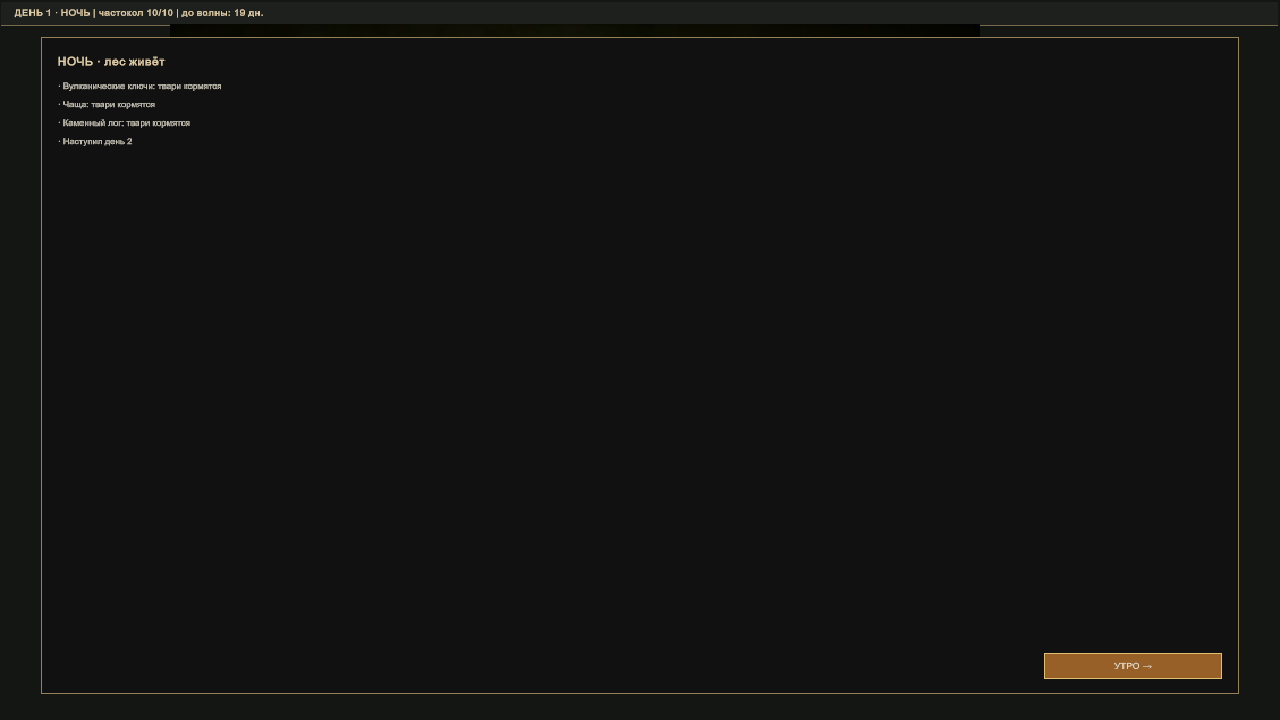
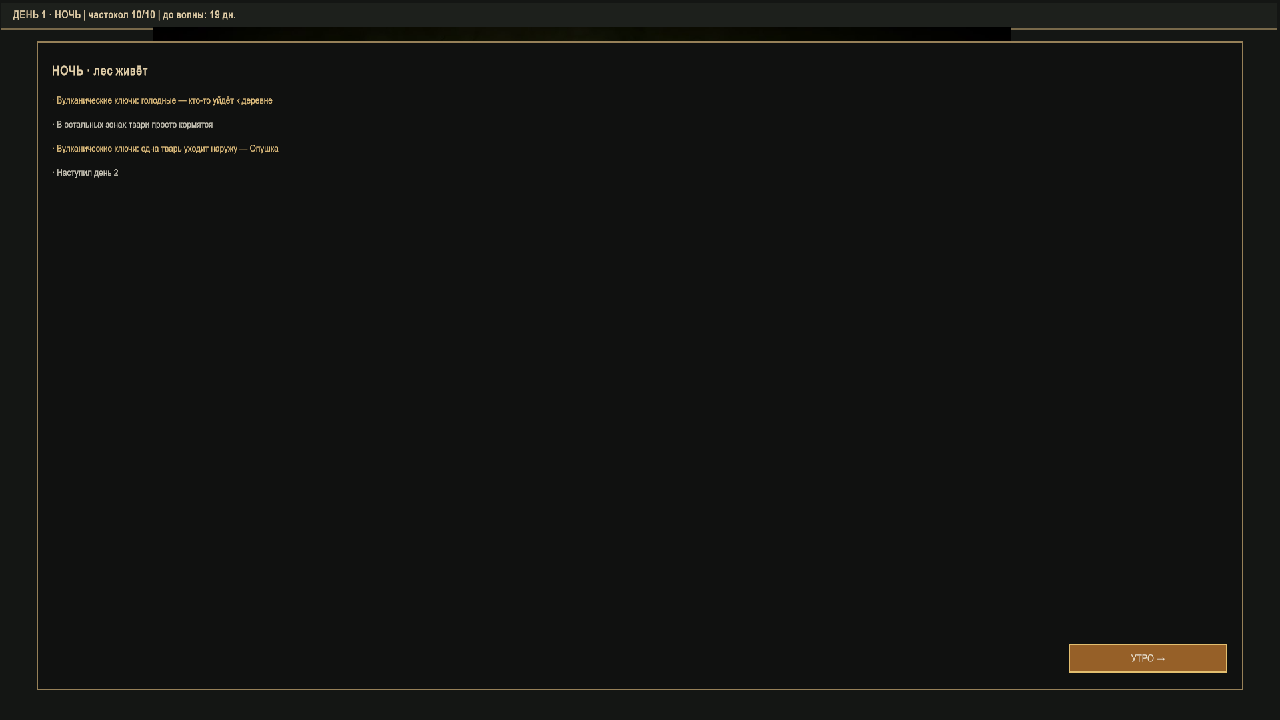
feat(ui): ночь без стрелок, кликабельные зоны и свёртка тихих зон

Changed region(s): [[0.0, 0.0, 1.0, 0.2444], [0.8125, 0.8861, 0.9688, 0.9472]]

diff --git a/FG/Assets/Scripts/Core/Sim/NightSim.cs b/FG/Assets/Scripts/Core/Sim/NightSim.cs
@@ -5,13 +5,21 @@ using ForestGuild.Core.Data;
 
 namespace ForestGuild.Core.Sim
 {
+    public sealed class NightLine
+    {
+        public string Text;
+        public string ZoneId;
+    }
+
     public sealed class NightReport
     {
         public readonly List<string> Lines = new List<string>();
+        public readonly List<NightLine> Entries = new List<NightLine>();
 
-        public void Add(string line)
+        public void Add(string line, string zoneId = null)
         {
             Lines.Add(line);
+            Entries.Add(new NightLine { Text = line, ZoneId = zoneId });
         }
     }
 
@@ -102,24 +110,30 @@ namespace ForestGuild.Core.Sim
             return logs;
         }
 
+        /// Тихую ночь не перечисляем: одна строка на все зоны, где только ели.
         private static void ReportFeeding(World world, Tables tables, List<ZoneNightLog> logs, NightReport report)
         {
+            var quiet = 0;
+
             foreach (var log in logs)
             {
                 var name = tables.Zones.Get(log.ZoneId).Name;
+
                 if (log.Starved > 0)
                 {
-                    report.Add(name + ": голодные — кто-то уйдёт к деревне");
+                    report.Add(name + ": голодные — кто-то уйдёт к деревне", log.ZoneId);
                 }
                 else if (log.CrystalsEaten > 0)
                 {
-                    report.Add(name + ": твари добрались до кристаллов");
+                    report.Add(name + ": твари добрались до кристаллов", log.ZoneId);
                 }
                 else if (log.ForageEaten > 0)
                 {
-                    report.Add(name + ": твари кормятся");
+                    quiet++;
                 }
             }
+
+            if (quiet > 0) report.Add("В остальных зонах твари просто кормятся");
         }
 
         private static void Migrate(World world, Tables tables,
@@ -140,8 +154,9 @@ namespace ForestGuild.Core.Sim
 
                 if (move > 0)
                 {
-                    report.Add(tables.Zones.Get(pair.Key).Name + ": " + move
-                        + " твар. уходит в " + tables.Zones.Get(outward).Name);
+                    var what = move == 1 ? "одна тварь" : "несколько тварей";
+                    report.Add(tables.Zones.Get(pair.Key).Name + ": " + what
+                        + " уходит наружу — " + tables.Zones.Get(outward).Name, pair.Key);
                 }
             }
         }
@@ -158,7 +173,7 @@ namespace ForestGuild.Core.Sim
                 state.Nest.Beasts = 0;
                 state.Nest.DaysSinceSpawn = 0;
                 state.AddSighting(world.Day, tables.Zones.Get(state.ZoneId).Name + ": видели гнездо");
-                report.Add(tables.Zones.Get(state.ZoneId).Name + ": появилось гнездо");
+                report.Add(tables.Zones.Get(state.ZoneId).Name + ": появилось гнездо", state.ZoneId);
             }
 
             var spawnDays = tuning.GetInt("nest_spawn_days");
@@ -180,7 +195,7 @@ namespace ForestGuild.Core.Sim
 
                 state.Beasts.TryGetValue(nestBeast.BeastId, out var current);
                 state.Beasts[nestBeast.BeastId] = current + 1;
-                report.Add(tables.Zones.Get(state.ZoneId).Name + ": гнездо растит тварь");
+                report.Add(tables.Zones.Get(state.ZoneId).Name + ": гнездо растит тварь", state.ZoneId);
             }
         }
 

diff --git a/FG/AgentScripts/DriveNight.cs b/FG/AgentScripts/DriveNight.cs
@@ -1,0 +1,44 @@
+using System.Linq;
+using System.Reflection;
+using UnityEngine;
+using UnityEngine.UIElements;
+
+/// <summary>Прогон до ночи и проверка строк: сколько их и у скольких есть ссылка на зону.</summary>
+public static class DriveNight
+{
+    private const BindingFlags Flags = BindingFlags.NonPublic | BindingFlags.Instance;
+
+    public static string Run()
+    {
+        var screen = Object.FindAnyObjectByType<ForestGuild.Game.MapScreen>();
+        var type = screen.GetType();
+
+        var a = screen.World.Squads[0];
+        a.Members.Clear();
+        a.Members.Add("brunni");
+        a.Members.Add("leya");
+        a.ZoneId = "verge_springs";
+        screen.Board.Rebuild();
+
+        type.GetMethod("OpenOrder", Flags).Invoke(screen, null);
+        type.GetMethod("ConfirmOrder", Flags).Invoke(screen, null);
+        type.GetMethod("GoToEvening", Flags).Invoke(screen, null);
+
+        // Голодная зона: тварей больше, чем корма, — будет строка миграции со ссылкой на зону.
+        var springs = screen.World.Zones["verge_springs"];
+        springs.Beasts.Clear();
+        springs.Beasts["beast_spark"] = 4;
+        springs.Crystals = 0;
+
+        type.GetMethod("GoToNight", Flags).Invoke(screen, null);
+
+        var root = screen.GetComponent<UIDocument>().rootVisualElement;
+        var lines = root.Q<ScrollView>("pane-lines");
+        var labels = lines.contentContainer.Query<Label>().ToList();
+        var links = labels.Count(l => l.ClassListContains("link"));
+
+        return "phaseNight=" + screen.World.Day
+            + " lines=" + labels.Count
+            + " links=" + links;
+    }
+}

diff --git a/FG/Assets/Scripts/Game/MapScreen.cs b/FG/Assets/Scripts/Game/MapScreen.cs
@@ -283,9 +283,36 @@ namespace ForestGuild.Game
             var night = _flow.RunNight(_plan);
 
             SetPhase(Phase.Night);
-            ShowPane("НОЧЬ · лес живёт", night.Lines, "УТРО →", GoToMorning);
+            ShowNight(night);
 
             Map.RefreshStates(World);
+        }
+
+        /// Ночь (ui.md §7): строки с именами зон, по клику — досье. Стрелок на карте нет.
+        private void ShowNight(NightReport night)
+        {
+            _paneTitle.text = "НОЧЬ · лес живёт";
+            _paneButton.text = "УТРО →";
+            _paneAction = GoToMorning;
+
+            _paneLines.Clear();
+            foreach (var entry in night.Entries)
+            {
+                var label = new Label("· " + entry.Text);
+                label.AddToClassList("pane-line");
+
+                if (entry.ZoneId != null)
+                {
+                    label.AddToClassList("link");
+                    var zoneId = entry.ZoneId;
+                    label.RegisterCallback<ClickEvent>(_ =>
+                        Dossier.Open(zoneId, Tables, World, false));
+                }
+
+                _paneLines.Add(label);
+            }
+
+            _paneLines.scrollOffset = Vector2.zero;
         }
 
         private void GoToMorning()

diff --git a/tools/sim/Program.cs b/tools/sim/Program.cs
@@ -289,6 +289,16 @@ internal static class Program
             return w.ConditionOf("leya") == PersonCondition.Healthy;
         });
 
+        checks.Check("quiet night folds into one line", () =>
+        {
+            var t = DataLoader.Load(DataDir());
+            var w = World.Create(t);
+            var report = NightSim.AdvanceNight(w, t, new Rng(1));
+
+            var quiet = report.Entries.FindAll(e => e.Text.Contains("просто кормятся")).Count;
+            return quiet <= 1 && report.Entries.Count <= 6;
+        });
+
         return checks.Report() ? 0 : 1;
     }
 

diff --git a/docs/ui.md b/docs/ui.md
@@ -420,8 +420,8 @@ StandingOrders {
 Отладочный режим (§4.7) показывает счётчики поверх тех же строк.
 
 
-- Карта подсвечивает маршруты миграции стрелками по графу соседей (уже есть из шага 1);
-  названия зон в строках отчёта кликабельны — на досье (§4.7).
+- Карта подсвечивает маршруты миграции стрелками по графу соседей — **отменено**: ночь объясняет
+  словами, а не картой. Имена зон в строках отчёта кликабельны — открывают досье (§4.7).
 - Формулировки — **8–10 шаблонов строк**, список проявляется построчно, без звука: это
   «обещание лес живой» и главный носитель причинности (design.md §13.1).
 - Волна (день 21+): вместо строчек — красная карточка «НАПАДАЕТ»: число тварей, бонусы за частокол,
@@ -522,7 +522,7 @@ StandingOrders {
 | §4.8 Подпись приказа | частично | Модал со сводкой по отрядам, работам и предупреждениями, кнопки «НЕ ПОКА» и «ПОДПИСАТЬ» |
 | §5 Поход | нет | Вылазка считается мгновенно; в UI нет часов, пауз, карт событий, наказов, скоростей |
 | §6 Вечер | частично | Итог дня, склад с дельтой («было 0, стало 1»), постели с лимитом из `tuning.csv`, предупреждение о беспостельных, «СПАТЬ →». Нет переназначения добычи между стоками — добыча идёт в запас |
-| §7 Ночь | частично | Отдельная фаза, строки без чисел; нет стрелок миграции и свёртки «в прочих тихо» |
+| §7 Ночь | частично | Отдельная фаза: строки без чисел, тихие зоны свёрнуты в «в остальных зонах твари просто кормятся», имена зон кликабельны и открывают досье. Стрелок миграции нет — отменены |
 | §8 HUD | частично | Есть строка «день · фаза · частокол · до волны». Нет склада и здоровья |
 | §9 Данные ↔ UI | частично | `DayPlan`, `ZoneState`, `zone_lore` подключены; события вылазки в UI не выводятся |
 | §10 Реализация | частично | UI Toolkit, UXML/USS, тонкие View-классы — да; `ExpeditionRunner`, `LogLines`, шаблоны карточек — нет |

diff --git a/docs/current/2026-11-07-ui-slice/result.md b/docs/current/2026-11-07-ui-slice/result.md
@@ -185,6 +185,15 @@
 
 Проверено: 24 проверки ядра, код 0 (добавлены «добыча попадает в склад» и «постели лечат за ночь»); в Play Mode вечер открыт с добычей и раненым, «на постель» → ночь → `Healthy`, день 2. Скриншот `docs/images/ui/step1/evening.png`.
 
+## Итерация 13 — ночь без стрелок (ui.md §7)
+
+- **Стрелки миграции отменены** — ночь объясняет словами; решение записано в `docs/ui.md` §7.
+- Имена зон в строках ночи **кликабельны** и открывают досье (из ночи — только чтение, «К СБОРКЕ» погашена).
+- **Тихие зоны сворачиваются**: вместо строки на каждую зону — «В остальных зонах твари просто кормятся». Строк теперь 3–5 вместо 8–10.
+- Числа в тексте заменены словами: «одна тварь уходит наружу — Опушка» вместо «1 твар. уходит в Опушка» (заодно убрал кривой падеж).
+
+Проверено: 25 проверок ядра, код 0 (добавлена «quiet night folds into one line» — не больше шести строк и одна свёртка); в Play Mode ночь с голодной зоной дала 4 строки, из них 2 со ссылкой (`links=2`). Скриншот `docs/images/ui/step1/night.png`.
+
 ## Заметки на будущее
 
 - `UIDocument.panelSettings`, назначенный сеттером из скриптовой сборки сцены, **не сериализуется** (`m_PanelSettings: {fileID: 0}`) — экран чёрный. Ставить через `SerializedObject` и сохранять сцену.
